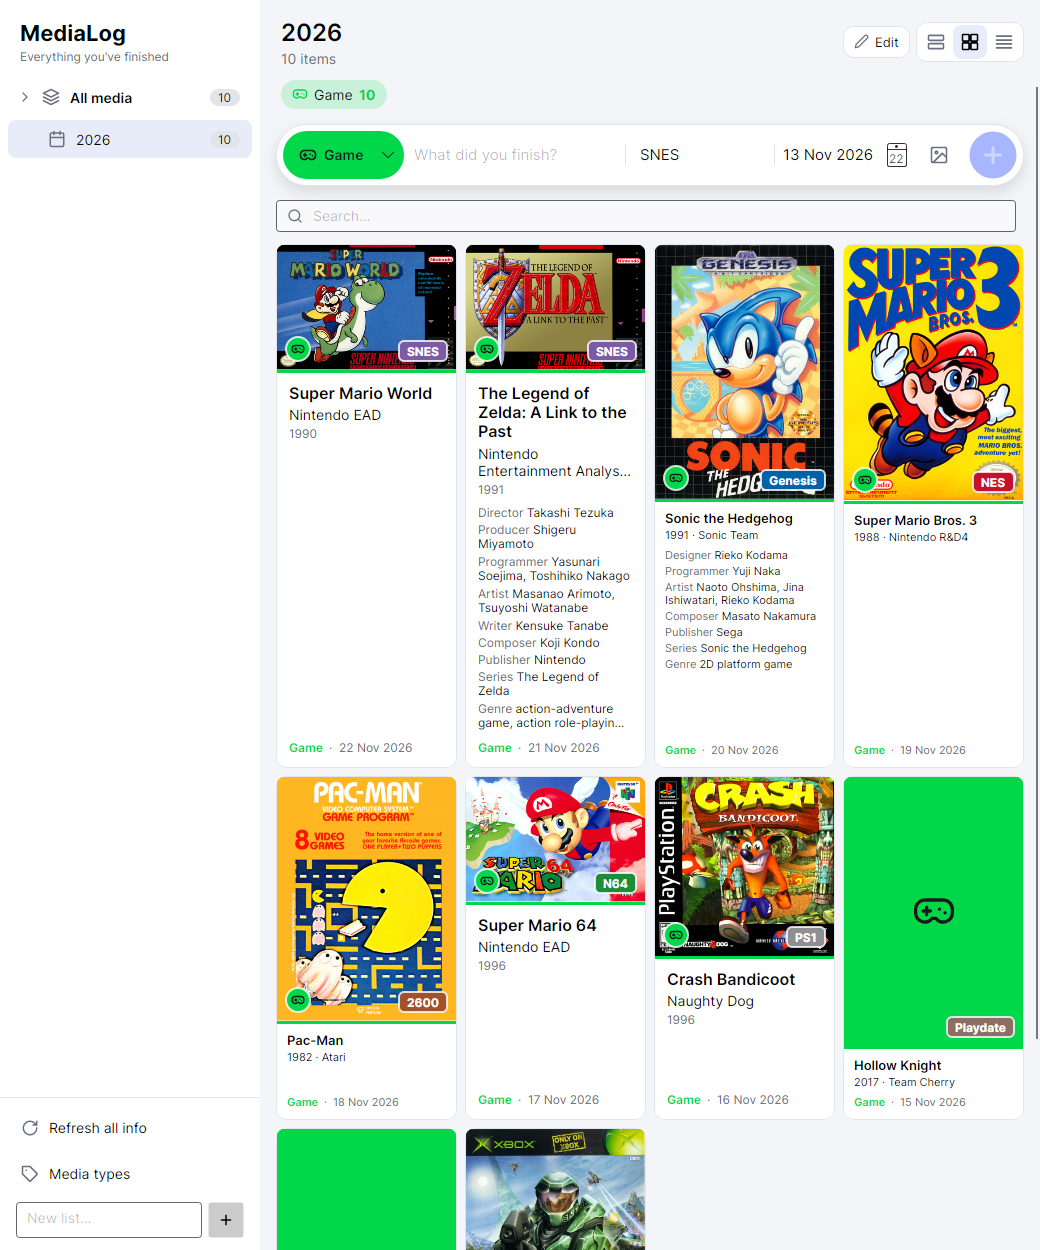
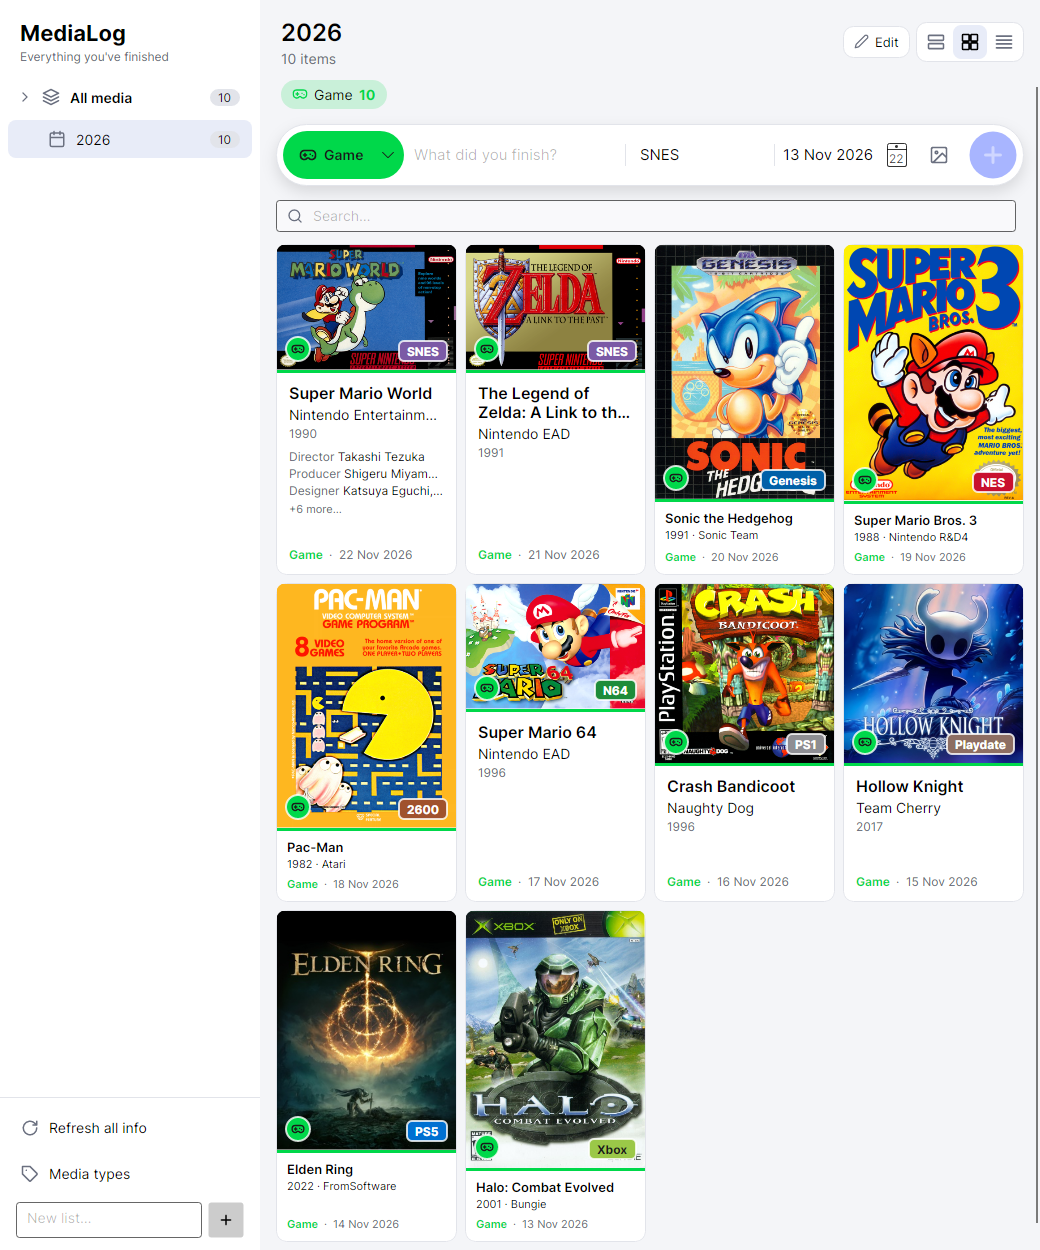
MediaLog: cap tile height
Cover-shaped tiles, but a tile can't grow huge: cover height is capped
at 1.45x the tile width (tall art is fitted whole inside), the title is
limited to two lines, creator and credits to one line each, and only
three credits are shown with '+N more…' (all of them are in the
details card).

Claude-Session: https://claude.ai/code/session_01NWBCcXr1uMHCvRDya14kEE

diff --git a/apps/MediaLog/MediaLog/ViewModels/EntryViewModel.cs b/apps/MediaLog/MediaLog/ViewModels/EntryViewModel.cs
@@ -53,6 +53,18 @@ public partial class EntryViewModel : ViewModelBase
 
     public bool HasCredits => Credits.Count > 0;
 
+    /// <summary>Tiles show only a few credits (all of them are in the details card).</summary>
+    public const int TileCreditLimit = 3;
+
+    public IReadOnlyList<Credit> TileCredits => Credits.Take(TileCreditLimit).ToList();
+
+    public bool HasMoreCredits => Credits.Count > TileCreditLimit;
+
+    public string MoreCreditsText => $"+{Credits.Count - TileCreditLimit} more…";
+
+    /// <summary>Tile cover shape, capped so a tall cover can't make a whole row of tiles huge.</summary>
+    public double TileCoverRatio => Math.Min(CoverRatio, 1.45);
+
     /// <summary>"Director: Hiroshi Yamauchi · Composer: Koji Kondo" for cards.</summary>
     public string CreditsLine => string.Join("  ·  ", Credits.Select(c => $"{c.Role}: {c.Name}"));
 
@@ -156,7 +168,7 @@ public partial class EntryViewModel : ViewModelBase
 
     /// <summary>Cover image, once downloaded (or from cache).</summary>
     [ObservableProperty]
-    [NotifyPropertyChangedFor(nameof(HasImage), nameof(IsSquareCover), nameof(CoverRatio), nameof(CoverBackground), nameof(TileCoverBackground), nameof(ThumbWidth))]
+    [NotifyPropertyChangedFor(nameof(HasImage), nameof(IsSquareCover), nameof(CoverRatio), nameof(CoverBackground), nameof(TileCoverBackground), nameof(ThumbWidth), nameof(TileCoverRatio))]
     public partial Bitmap? Image { get; set; }
 
     public bool HasImage => Image is not null;
